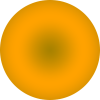
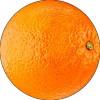
Added a score system, more fruits and updated fruit sprites

diff --git a/game.js b/game.js
@@ -9,6 +9,12 @@ var config = {
             debug: false
         }
     },
+    scale: {
+        parent: 'game-container',
+        autoCenter: Phaser.Scale.CENTER_BOTH,
+        width: 500,
+        height: 700
+    },
     scene: {
         preload: preload,
         create: create,
@@ -19,24 +25,38 @@ var config = {
 const game = new Phaser.Game(config);
 
 let fruits = [];
-let fruitTypes = ["tomato", "apple", "peach", "watermelon", "orange", "plum"];
+let fruitTypes = ["tomato", "apple", "peach", "watermelon", "orange", "plum", "avocado", "strawberry", "pineapple", "dragonfruit"];
 let maxUnlockedIndex = 0;
 let currentFruit = null;
 let cursors;
+let score = 0;
+let scoreText;
 
 function preload() {
-    this.load.image('background', 'assets/BlueBackground.jpg'),
-    this.load.image('tomato', 'assets/tomato.png'),
-    this.load.image('apple', 'assets/apple.png'),
-    this.load.image('peach', 'assets/peach.png'),
-    this.load.image('watermelon', 'assets/watermelon.png')
-    this.load.image('orange', 'assets/orange.png')
-    this.load.image('plum', 'assets/plum.png')
+    this.load.image('background', 'Assets/BlueBackground.jpg');
+    this.load.image('tomato', 'Assets/Tomato.png');
+    this.load.image('apple', 'Assets/Apple.png');
+    this.load.image('peach', 'Assets/Peach.png');
+    this.load.image('watermelon', 'Assets/Watermelon.png');
+    this.load.image('orange', 'Assets/Orange.png');
+    this.load.image('plum', 'Assets/Plum.png');
+    this.load.image('avocado', 'Assets/Avocado.png');
+    this.load.image('strawberry', 'Assets/Strawberry.png');
+    this.load.image('pineapple', 'Assets/pineapple.png');
+    this.load.image('dragonfruit', 'Assets/Dragonfruit.png');
 }
 
 function create() {
     
-    this.add.image(config.width/2, config.height/2, 'background'),
+    this.add.image(config.width/2, config.height/2, 'background');
+
+    scoreText = this.add.text(config.width - 10, 10, 'Score: 0', {
+        fontSize: '24px',
+        fontFamily: 'Arial',
+        color: '#ffffff'
+    });
+    scoreText.setOrigin(1, 0);
+    
     
     this.matter.world.setBounds(0, 0, config.width, config.height);
 
@@ -46,6 +66,7 @@ function create() {
         if (currentFruit) {
             currentFruit.setStatic(false); // let it fall
             fruits.push(currentFruit);
+            currentFruit.body.isSensor = false;
             currentFruit = null;
 
             // spawn a new one after short delay
@@ -73,6 +94,7 @@ function create() {
             }
         });
     });
+    this.children.bringToTop(scoreText);
 }
 
 function update() {
@@ -119,6 +141,9 @@ function mergeFruits(scene, f1, f2) {
     if (idx + 1 > maxUnlockedIndex) {
         maxUnlockedIndex = idx + 1;
     }
+    
+    score += (idx + 1) * 10;
+    scoreText.setText('Score: ' + score);
 }
 
 function spawnFruit(scene) {
@@ -131,4 +156,5 @@ function spawnFruit(scene) {
     });
 
     currentFruit.setStatic(true);
+    currentFruit.body.isSensor = true;
 }

diff --git a/index.html b/index.html
@@ -5,8 +5,10 @@
         <title>Merge Game</title>
         <script src="https://cdn.jsdelivr.net/npm/phaser@3/dist/phaser.js"></script>
         <script src="game.js"></script>
+        <link rel="stylesheet" href="style.css">
     </head>
-    <body style="margin:0; padding:0; background:#222;">
-
+    <body>
+        <div id="game-container"></div>
+        
     </body>
 </html>

diff --git a/style.css b/style.css
@@ -1,0 +1,20 @@
+  html, body {
+    margin: 0;
+    padding: 0;
+    height: 100%;
+    width: 100%;
+    background: #222; 
+    display: flex; 
+    justify-content: center;
+    align-items: center;
+  }
+
+  #game-container {
+    width: 100%;  
+    height: 100%; 
+    position: relative; 
+  }
+
+  canvas {
+    display: block;       
+  }
